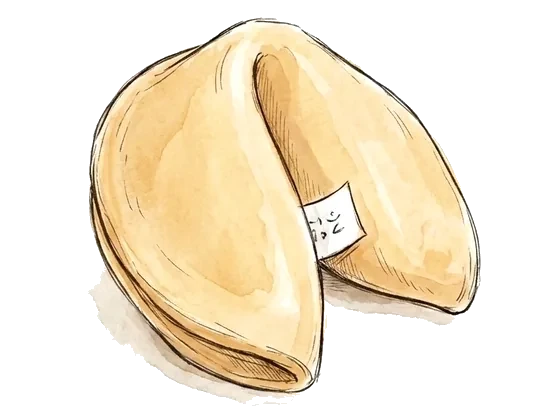
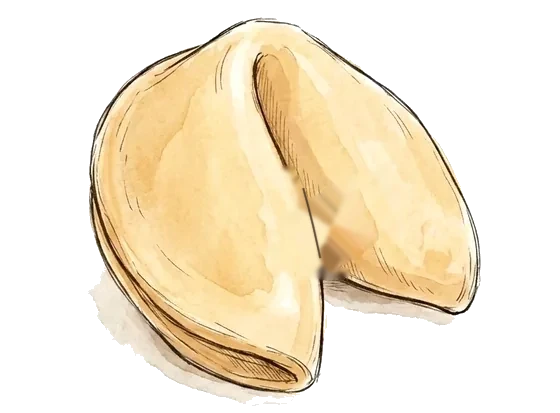
Fortune: nothing covers the fortune, and the closed cookie has no paper showing
1. The right shell was painting over the slip and hiding the end of the fortune.
   The slip now sits AFTER the cookie in the DOM, so it paints on top: nothing is
   allowed to cover the one thing on this page a visitor is meant to read. Its
   left edge still sits in the gap between the halves, so it still reads as
   coming out of the opening, and it is raised enough that both halves stay
   visible. Losing the tuck also lost the deep left padding that was threading it
   behind the shell, so the slip is shorter and the text starts where the eye
   lands.

2. The closed cookie had a paper tab wedged between its two exterior faces, with
   black writing on it, and the fortune is red. It was baked into the artwork,
   not drawn by us. Painted out: the tab is masked, the surrounding cookie is
   pulled inward to fill it (rather than diffusing the white outward, which just
   smeared it), and the fold line it was interrupting is redrawn through in the
   sampled ink colour. You now see no paper at all until you crack it, which is
   what a whole cookie looks like.

Verified at 1400 / 1024 / 390 / 360: the fortune is two lines, fully visible,
cracking still adds 0px of page height and there is no sideways scroll.

Claude-Session: https://claude.ai/code/session_01EonEV4LiYQa8GgrRhCGpDk

Changed region(s): [[0.4857, 0.4068, 0.6679, 0.6973], [0.6679, 0.4358, 0.7286, 0.5521], [0.4857, 0.5811, 0.5161, 0.6683]]

diff --git a/index.html b/index.html
@@ -355,15 +355,14 @@ a:focus-visible{outline:1.5px solid var(--ink);outline-offset:4px}
    off the surface (curl shading darkens the top and bottom edges, a soft lift shadow
    below), two fold creases from being folded in thirds, and roomy padding so text
    stays off the edges. Narrow and short so every fortune lands in at most two lines. */
-/* the slip comes out from INSIDE the cookie. Its left end starts in the gap
-   between the two cracked halves and is covered by the right shell, so it reads
-   as being pulled out of the opening rather than floating off the side; the rest
-   runs up and to the right where it can be read. It sits before the cookie in
-   the DOM, so the shells paint over its tucked-in end, and the shells composite
-   normally (no blend mode) so the paper never shows through them. Still
-   absolutely positioned inside the stage, so cracking the cookie adds no page
-   height, and still capped in width so it cannot spill off a narrow phone. */
-.slipwrap{position:absolute;top:33%;left:40%;
+/* the slip comes out of the cookie's opening and toward the reader. Its left
+   edge sits in the gap between the two cracked halves, so it reads as emerging
+   from in there, but it sits AFTER the cookie in the DOM and therefore paints on
+   top: nothing is allowed to cover the fortune, which is the one thing on this
+   page a visitor is meant to read. Still absolutely positioned inside the stage,
+   so cracking the cookie adds no page height, and still capped in width so it
+   cannot spill off a narrow phone. */
+.slipwrap{position:absolute;top:20%;left:47%;
   display:flex;flex-direction:column;align-items:flex-start;
   gap:clamp(10px,1.8vw,14px);width:max-content;max-width:min(58vw,280px);
   pointer-events:none}
@@ -384,9 +383,10 @@ a:focus-visible{outline:1.5px solid var(--ink);outline-offset:4px}
      so the printed part starts only once it is clear of the cookie. That deep left
      padding is what makes it read as pulled out from inside rather than laid beside. */
   /* HARD RULE: the fortune must never run past TWO lines, so the readable width
-     is sized to the LONGEST fortune, not to the look. Phones get their own
-     arrangement below, where a deep tuck would leave too little room to read. */
-  width:min(calc(100vw - 130px),430px);padding:9px 16px 9px clamp(100px,23vw,132px);
+     is sized to the LONGEST fortune, not to the look. The deep left padding that
+     used to thread this behind the shell is gone now that the slip sits in
+     front, which makes it shorter and puts the text where the eye lands. */
+  width:min(calc(100vw - 150px),278px);padding:9px 15px;
   transform:rotate(-8deg);transform-origin:0 50%;border-radius:1px;
   /* a real slip: long and thin, straight cut edges, bowed. The realism is the
      length-wise bow shading above and the soft lift shadow below, not a wavy edge. */
@@ -398,8 +398,8 @@ a:focus-visible{outline:1.5px solid var(--ink);outline-offset:4px}
 /* on a phone there is not enough width for both a deep tuck and two readable
    lines, so the slip rises further out of the gap and tucks only its corner. */
 @media (max-width:600px){
-  .slipwrap{top:16%;left:45%}
-  .slip{width:min(calc(100vw - 126px),248px);padding:8px 12px 8px 34px;font-size:10px}
+  .slipwrap{top:12%;left:47%}
+  .slip{width:min(calc(100vw - 142px),246px);padding:8px 12px;font-size:10px}
 }
 .cookiemod.open .slip{opacity:1;visibility:visible;translate:0 0}
 
@@ -535,13 +535,13 @@ a:focus-visible{outline:1.5px solid var(--ink);outline-offset:4px}
   <section class="cookiemod" id="cookiemod" aria-label="Fortune cookie">
     <p class="cookienote">This site uses no cookies. <span class="rainbow">Have one anyway.</span></p>
     <div class="cookiestage">
-      <div class="slipwrap">
-        <p class="slip" id="slip" aria-live="polite"></p>
-      </div>
       <button class="cookie" id="cookie" type="button" aria-expanded="false" aria-label="A fortune cookie. Crack it open.">
         <img class="ck0" src="cookie-closed.webp" width="560" height="413" alt="">
         <img class="ck1" src="cookie-cracked.webp" width="560" height="413" alt="" loading="lazy">
       </button>
+      <div class="slipwrap">
+        <p class="slip" id="slip" aria-live="polite"></p>
+      </div>
     </div>
   </section>
 